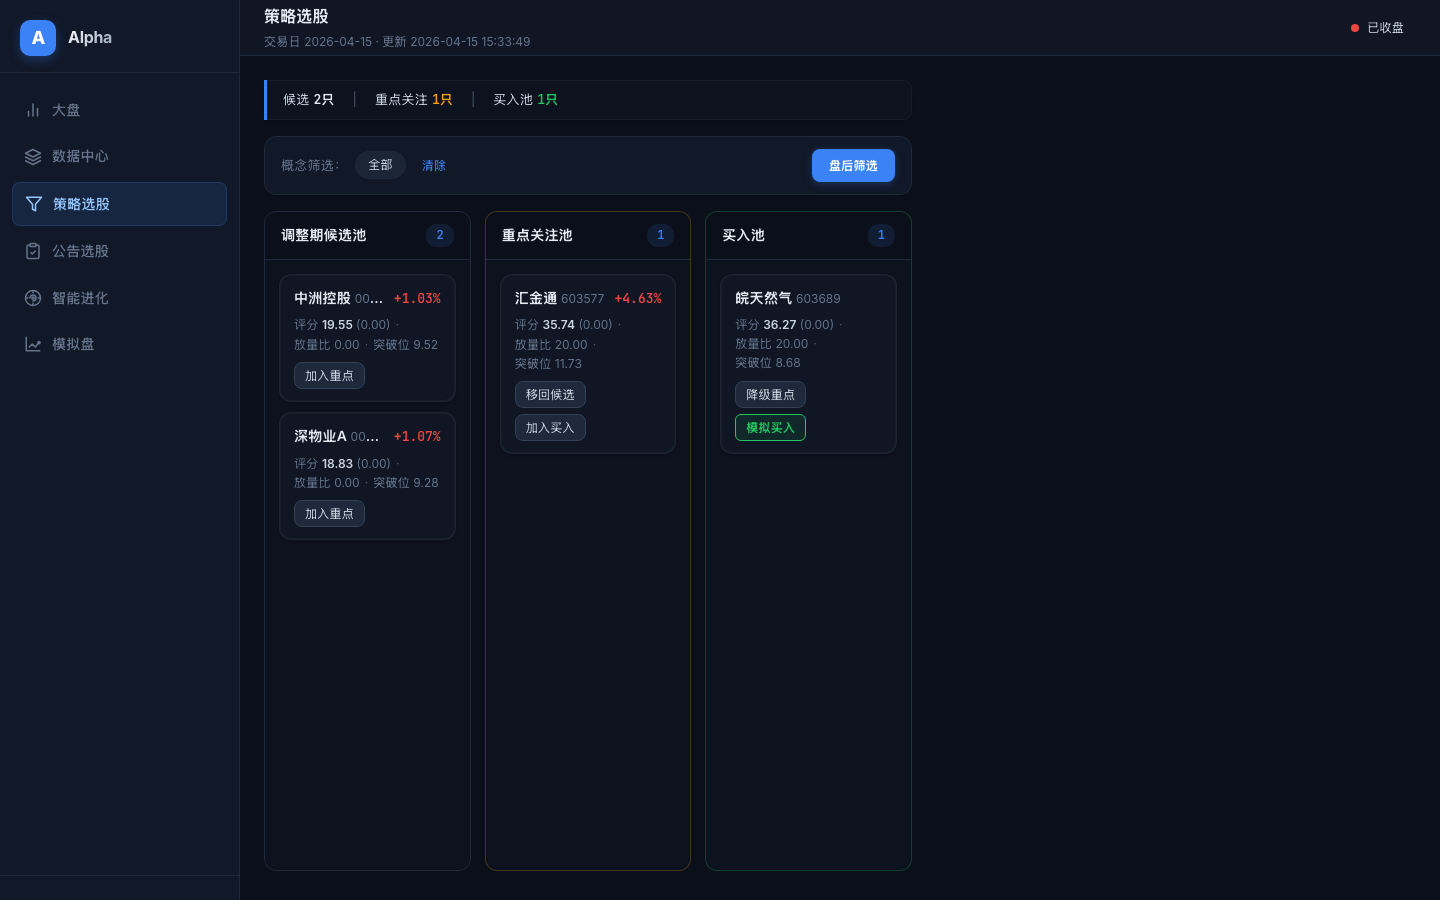
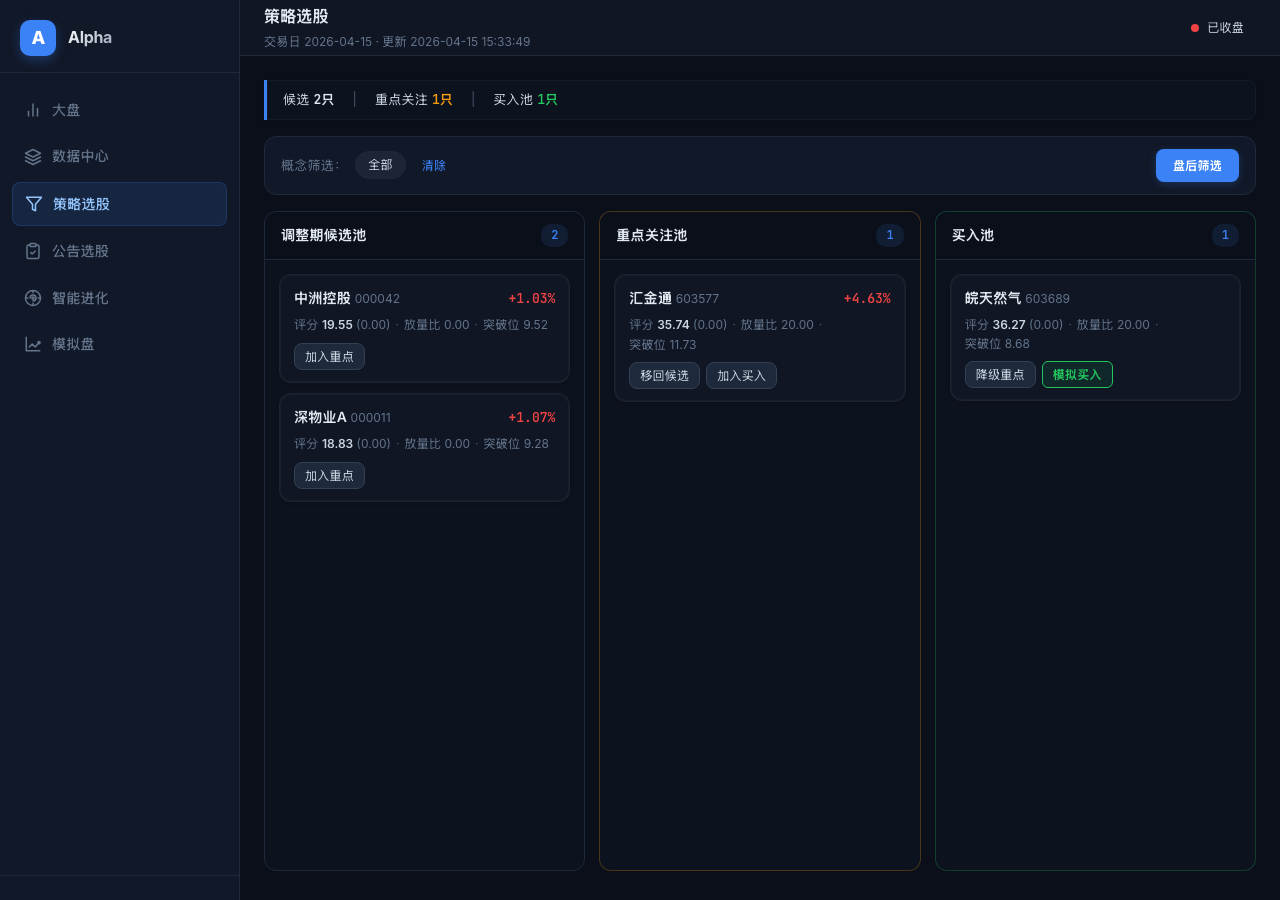
docs: 截图改为分段裁剪，每张图在GitHub上都能完整清晰显示
- 长页面拆分为上/下两段截图（900px高/段），避免单张过长在GitHub上被压缩
- 大盘：2张（市场情绪+概念Top10 / 热门个股Top10）
- 数据中心：2张（健康仪表盘+任务历史 / 完整性报告+同步日志）
- 策略选股：1张（三池完整展示）
- 公告选股：1张（概览+三池）
- 智能监控：2张（Agent面板+消息流 / 主线分析卡片详情）
- 模拟盘：2张（账户+持仓 / 平仓历史+成交记录）
- README引用更新为分段截图路径

diff --git a/scripts/take_screenshots.py b/scripts/take_screenshots.py
@@ -1,10 +1,11 @@
-"""截取每个 Tab 的全页面截图。
+"""截取每个 Tab 的分段截图。
 
-使用 Playwright 移除所有 overflow/max-height 限制，
-让页面内容完全展开后截取 full_page 截图。
+先用 Playwright 截取 full_page 截图，再用 Pillow 裁剪为多段，
+确保在 GitHub README 中每张图都能清晰展示。
 """
 import time
 from pathlib import Path
+from PIL import Image
 from playwright.sync_api import sync_playwright
 
 BASE = "http://127.0.0.1:18888"
@@ -12,17 +13,21 @@ OUT = Path(__file__).resolve().parent.parent / "docs" / "screenshots"
 OUT.mkdir(parents=True, exist_ok=True)
 
 TABS = [
-    ("market", "01-market.png"),
-    ("data", "02-data.png"),
-    ("funnel", "03-funnel.png"),
-    ("notice", "04-notice.png"),
-    ("agent", "05-agent.png"),
-    ("paper", "06-paper.png"),
+    ("market", "01-market"),
+    ("data", "02-data"),
+    ("funnel", "03-funnel"),
+    ("notice", "04-notice"),
+    ("agent", "05-agent"),
+    ("paper", "06-paper"),
 ]
+
+WIDTH = 1280
+SPLIT_THRESHOLD = 1100
+SEGMENT_HEIGHT = 900
+OVERLAP = 80
 
 JS_EXPAND = """
 (tabName) => {
-    // 移除所有布局层级的滚动限制
     const selectors = [
         '.center-main', '.app-shell', '.layout',
         '.market-split-left', '.pool-list',
@@ -40,29 +45,33 @@ JS_EXPAND = """
         });
     });
 
-    // Agent 页面：只保留最新 2 条消息卡片
+    // 大盘：热门个股只显示前 10
+    if (tabName === 'market') {
+        const hotStocks = document.getElementById('hotStocks');
+        if (hotStocks) {
+            const items = hotStocks.querySelectorAll('.hot-stock-item');
+            items.forEach((item, i) => { if (i >= 10) item.style.display = 'none'; });
+        }
+    }
+
+    // Agent：只保留最新 2 条消息
     if (tabName === 'agent') {
         const feed = document.getElementById('monitorFeed');
         if (feed) {
             const cards = feed.querySelectorAll('.monitor-msg-card');
-            cards.forEach((card, i) => {
-                if (i >= 2) card.style.display = 'none';
-            });
+            cards.forEach((card, i) => { if (i >= 2) card.style.display = 'none'; });
             feed.style.maxHeight = 'none';
             feed.style.overflow = 'visible';
         }
     }
 
-    // 全局去掉滚动限制
     document.body.style.overflow = 'visible';
     document.body.style.height = 'auto';
     document.documentElement.style.overflow = 'visible';
     document.documentElement.style.height = 'auto';
-    // 隐藏非当前 tab 内容
     document.querySelectorAll('.tab-content:not(.active)').forEach(el => {
         el.style.display = 'none';
     });
-    // 隐藏右侧面板（如果没数据的话只是空白）
     const rp = document.querySelector('.right-panel');
     if (rp && !rp.classList.contains('visible')) {
         rp.style.display = 'none';
@@ -70,27 +79,73 @@ JS_EXPAND = """
 }
 """
 
+
+def split_image(img_path: Path, prefix: str) -> list[str]:
+    """将截图裁剪为多段。短图保留原样，长图裁剪为多段。"""
+    im = Image.open(img_path)
+    w, h = im.size
+    print(f"  full image: {w}x{h}")
+
+    if h <= SPLIT_THRESHOLD:
+        dest = OUT / f"{prefix}.png"
+        im.save(dest, optimize=True)
+        print(f"  → {dest.name} ({dest.stat().st_size // 1024}KB)")
+        return [dest.name]
+
+    files = []
+    part = 1
+    y = 0
+    while y < h:
+        bottom = min(y + SEGMENT_HEIGHT, h)
+        if h - bottom < 200 and bottom < h:
+            bottom = h
+        seg = im.crop((0, y, w, bottom))
+        dest = OUT / f"{prefix}-{part}.png"
+        seg.save(dest, optimize=True)
+        print(f"  → {dest.name} ({dest.stat().st_size // 1024}KB) [{w}x{bottom - y}]")
+        files.append(dest.name)
+        y = bottom - OVERLAP
+        part += 1
+        if bottom == h:
+            break
+
+    return files
+
+
 def main():
+    all_files = {}
+    tmp_dir = OUT / "_tmp"
+    tmp_dir.mkdir(exist_ok=True)
+
     with sync_playwright() as p:
         browser = p.chromium.launch()
-        page = browser.new_page(viewport={"width": 1440, "height": 900})
+        page = browser.new_page(viewport={"width": WIDTH, "height": 900})
 
-        for tab, fname in TABS:
+        for tab, prefix in TABS:
             url = f"{BASE}/?tab={tab}"
-            print(f"[{tab}] navigating...")
+            print(f"\n[{tab}] navigating...")
             page.goto(url, wait_until="networkidle")
             time.sleep(4)
-
             page.evaluate(JS_EXPAND, tab)
             time.sleep(1)
 
-            dest = OUT / fname
-            page.screenshot(path=str(dest), full_page=True)
-            size = dest.stat().st_size // 1024
-            print(f"[{tab}] saved → {dest} ({size}KB)")
+            tmp_path = tmp_dir / f"{prefix}_full.png"
+            page.screenshot(path=str(tmp_path), full_page=True)
+            print(f"  full screenshot: {tmp_path.stat().st_size // 1024}KB")
+
+            files = split_image(tmp_path, prefix)
+            all_files[tab] = files
+            tmp_path.unlink()
 
         browser.close()
+
+    tmp_dir.rmdir()
+
+    print("\n=== Summary ===")
+    for tab, files in all_files.items():
+        print(f"  {tab}: {files}")
     print("done")
+
 
 if __name__ == "__main__":
     main()
